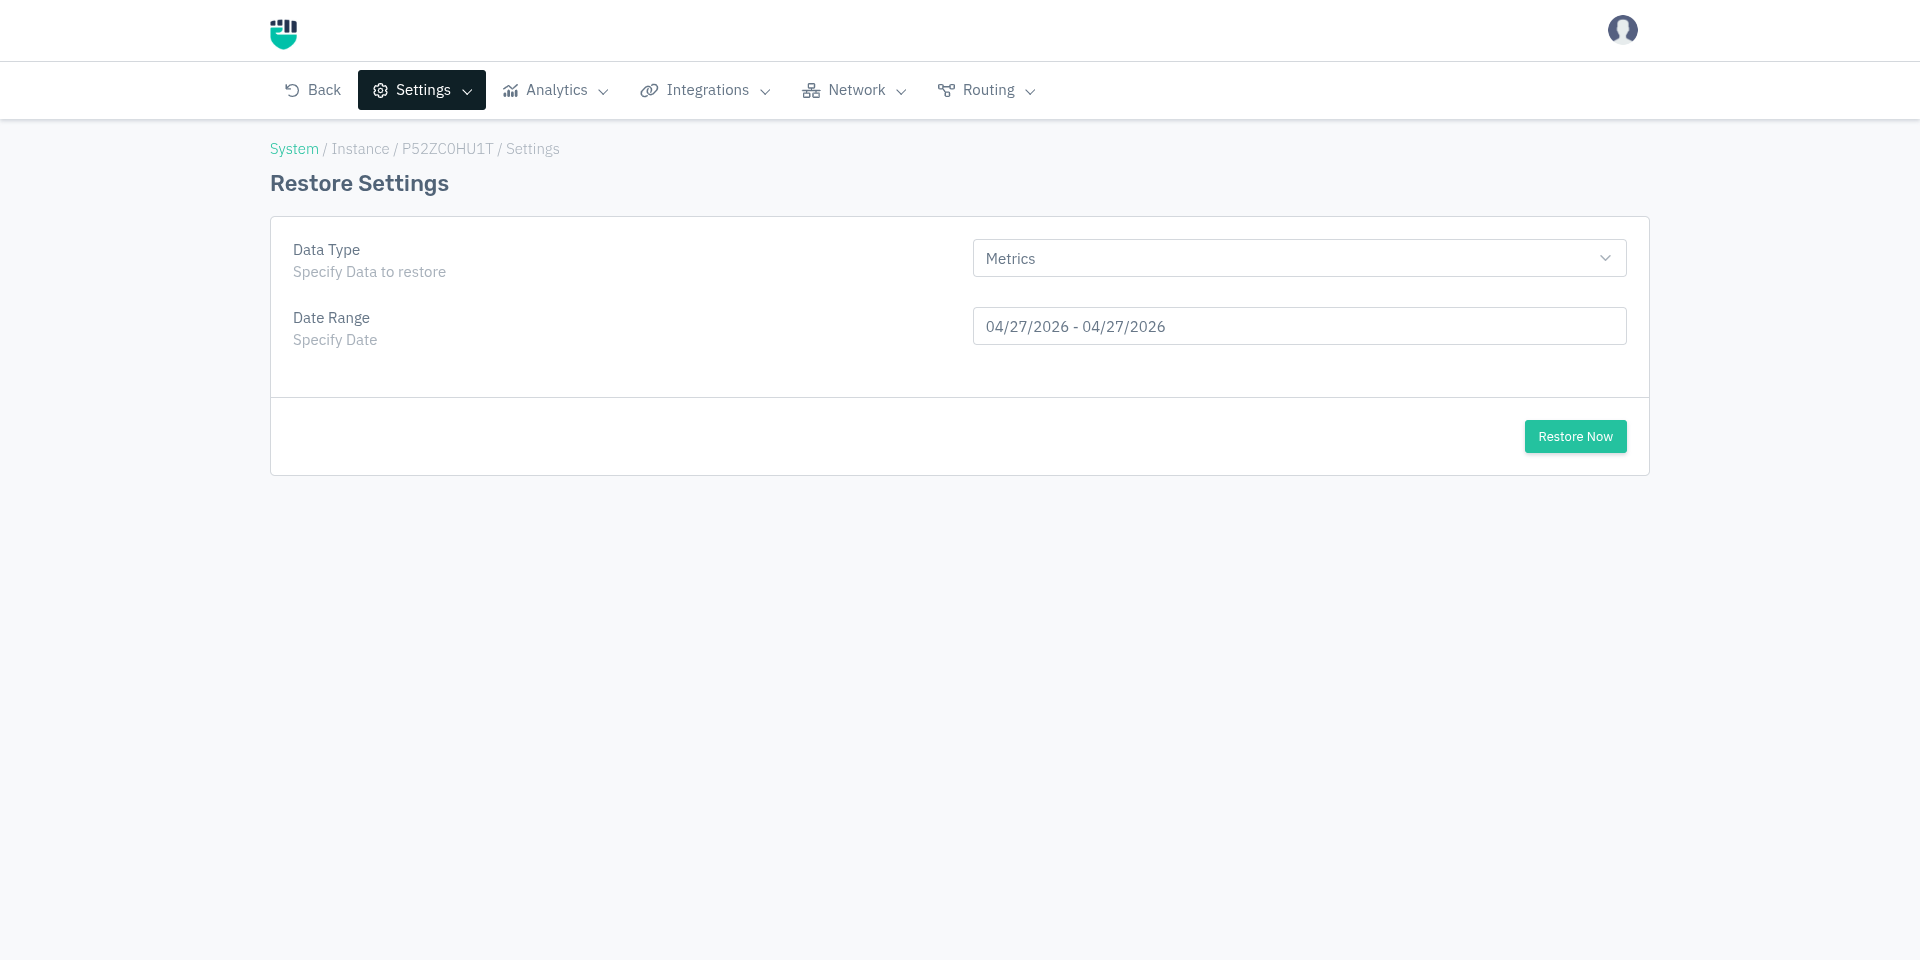
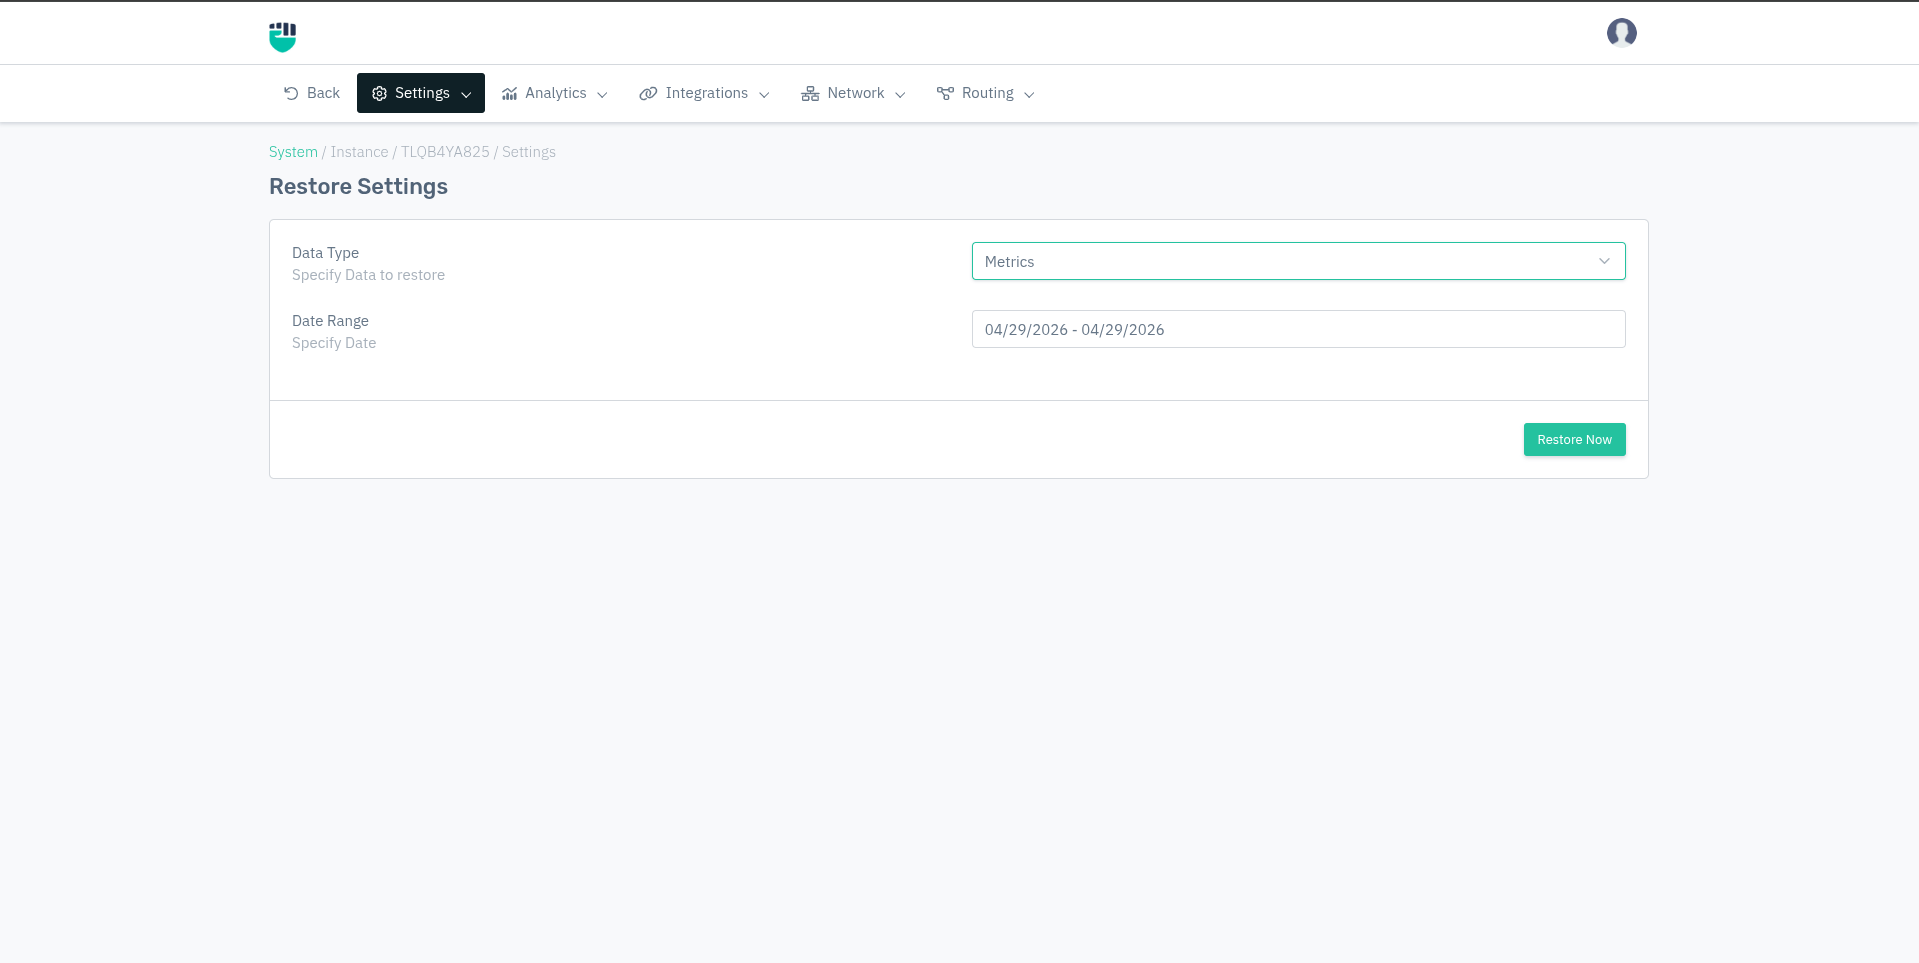
Restore Settings Page Added with image

diff --git a/docs/enterprise/platform/system/instance/settings/restore.md b/docs/enterprise/platform/system/instance/settings/restore.md
@@ -1,0 +1,68 @@
+---
+sidebar_position: 4
+---
+
+# Restore Setting
+
+---
+
+Restore Setting allows users to restore previously backed up data to the instance. Users can specify the type of data to restore and the date range from which the backup should be recovered.
+
+![Restore](/img/platform/v8/docs/restore_settings.png)
+
+:::note
+Restore is only possible if backups have been previously configured and data has been successfully transferred to FTP/SFTP or S3 storage. See [**Backup Setting**](./backup_policy) for configuring backups.
+:::
+
+---
+
+#### How to Use:
+
+1. Go to **System > Instance > (Select Instance) > Setting > Restore Setting**
+2. Select the **Data Type** to restore
+3. Specify the **Date Range** of the backup to restore from
+4. Click **Restore Now**
+
+:::caution
+Restoring data will overwrite the existing data of the selected type on the instance for the specified date range. This action cannot be undone. Ensure you are restoring the correct backup before proceeding.
+:::
+
+---
+
+### Description
+
+**Data Type**
+
+Specifies the category of data to be restored from the backup.
+
+```
+Accepted values : Metrics / Logs / Configuration
+Default         : Metrics
+```
+
+| Option | What gets restored |
+|---|---|
+| **Metrics** | Instance performance and health metrics (CPU, RAM, bandwidth usage over time) |
+| **Logs** | Traffic and security event logs |
+| **Configuration** | Instance and App configuration settings |
+
+:::note
+Restore one data type at a time. If you need to restore multiple data types, repeat the process for each type separately.
+:::
+
+---
+
+**Date Range**
+
+The date range of the backup from which data will be restored. Only backups available within the configured backup storage (FTP/S3) for the selected range will be restored.
+
+```
+Accepted values : Date range in MM/DD/YYYY - MM/DD/YYYY format
+Default         : Current date (both start and end)
+```
+
+**Example:** `04/01/2026 - 04/29/2026` — restores backup data from April 1 to April 29, 2026.
+
+:::note
+The available date range depends on the **Log Retention Period** configured under [**Backup Setting**](./backup_policy) and what has been successfully transferred to remote storage. If no backup exists for the selected range, the restore will have no effect.
+:::
